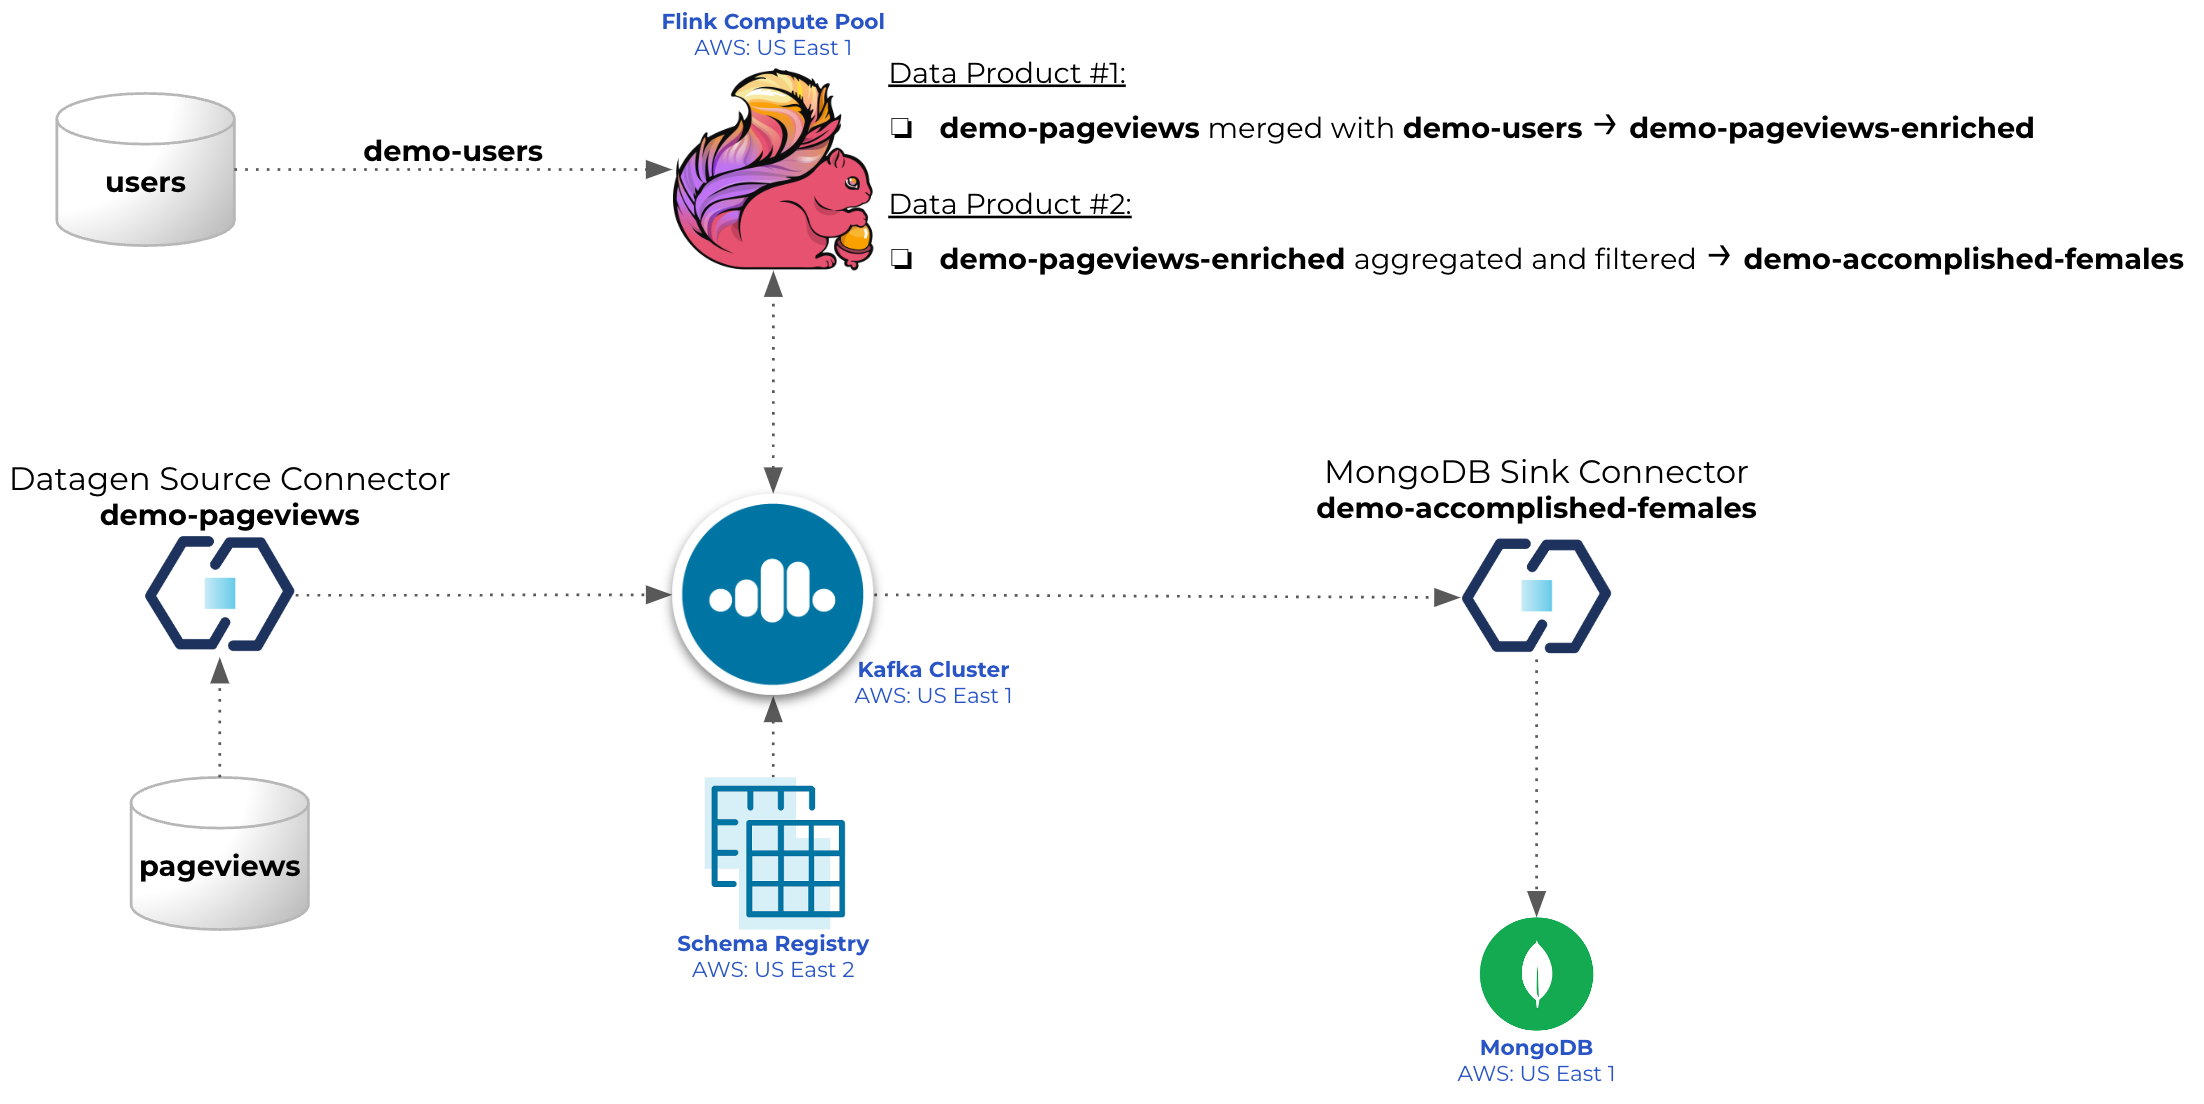
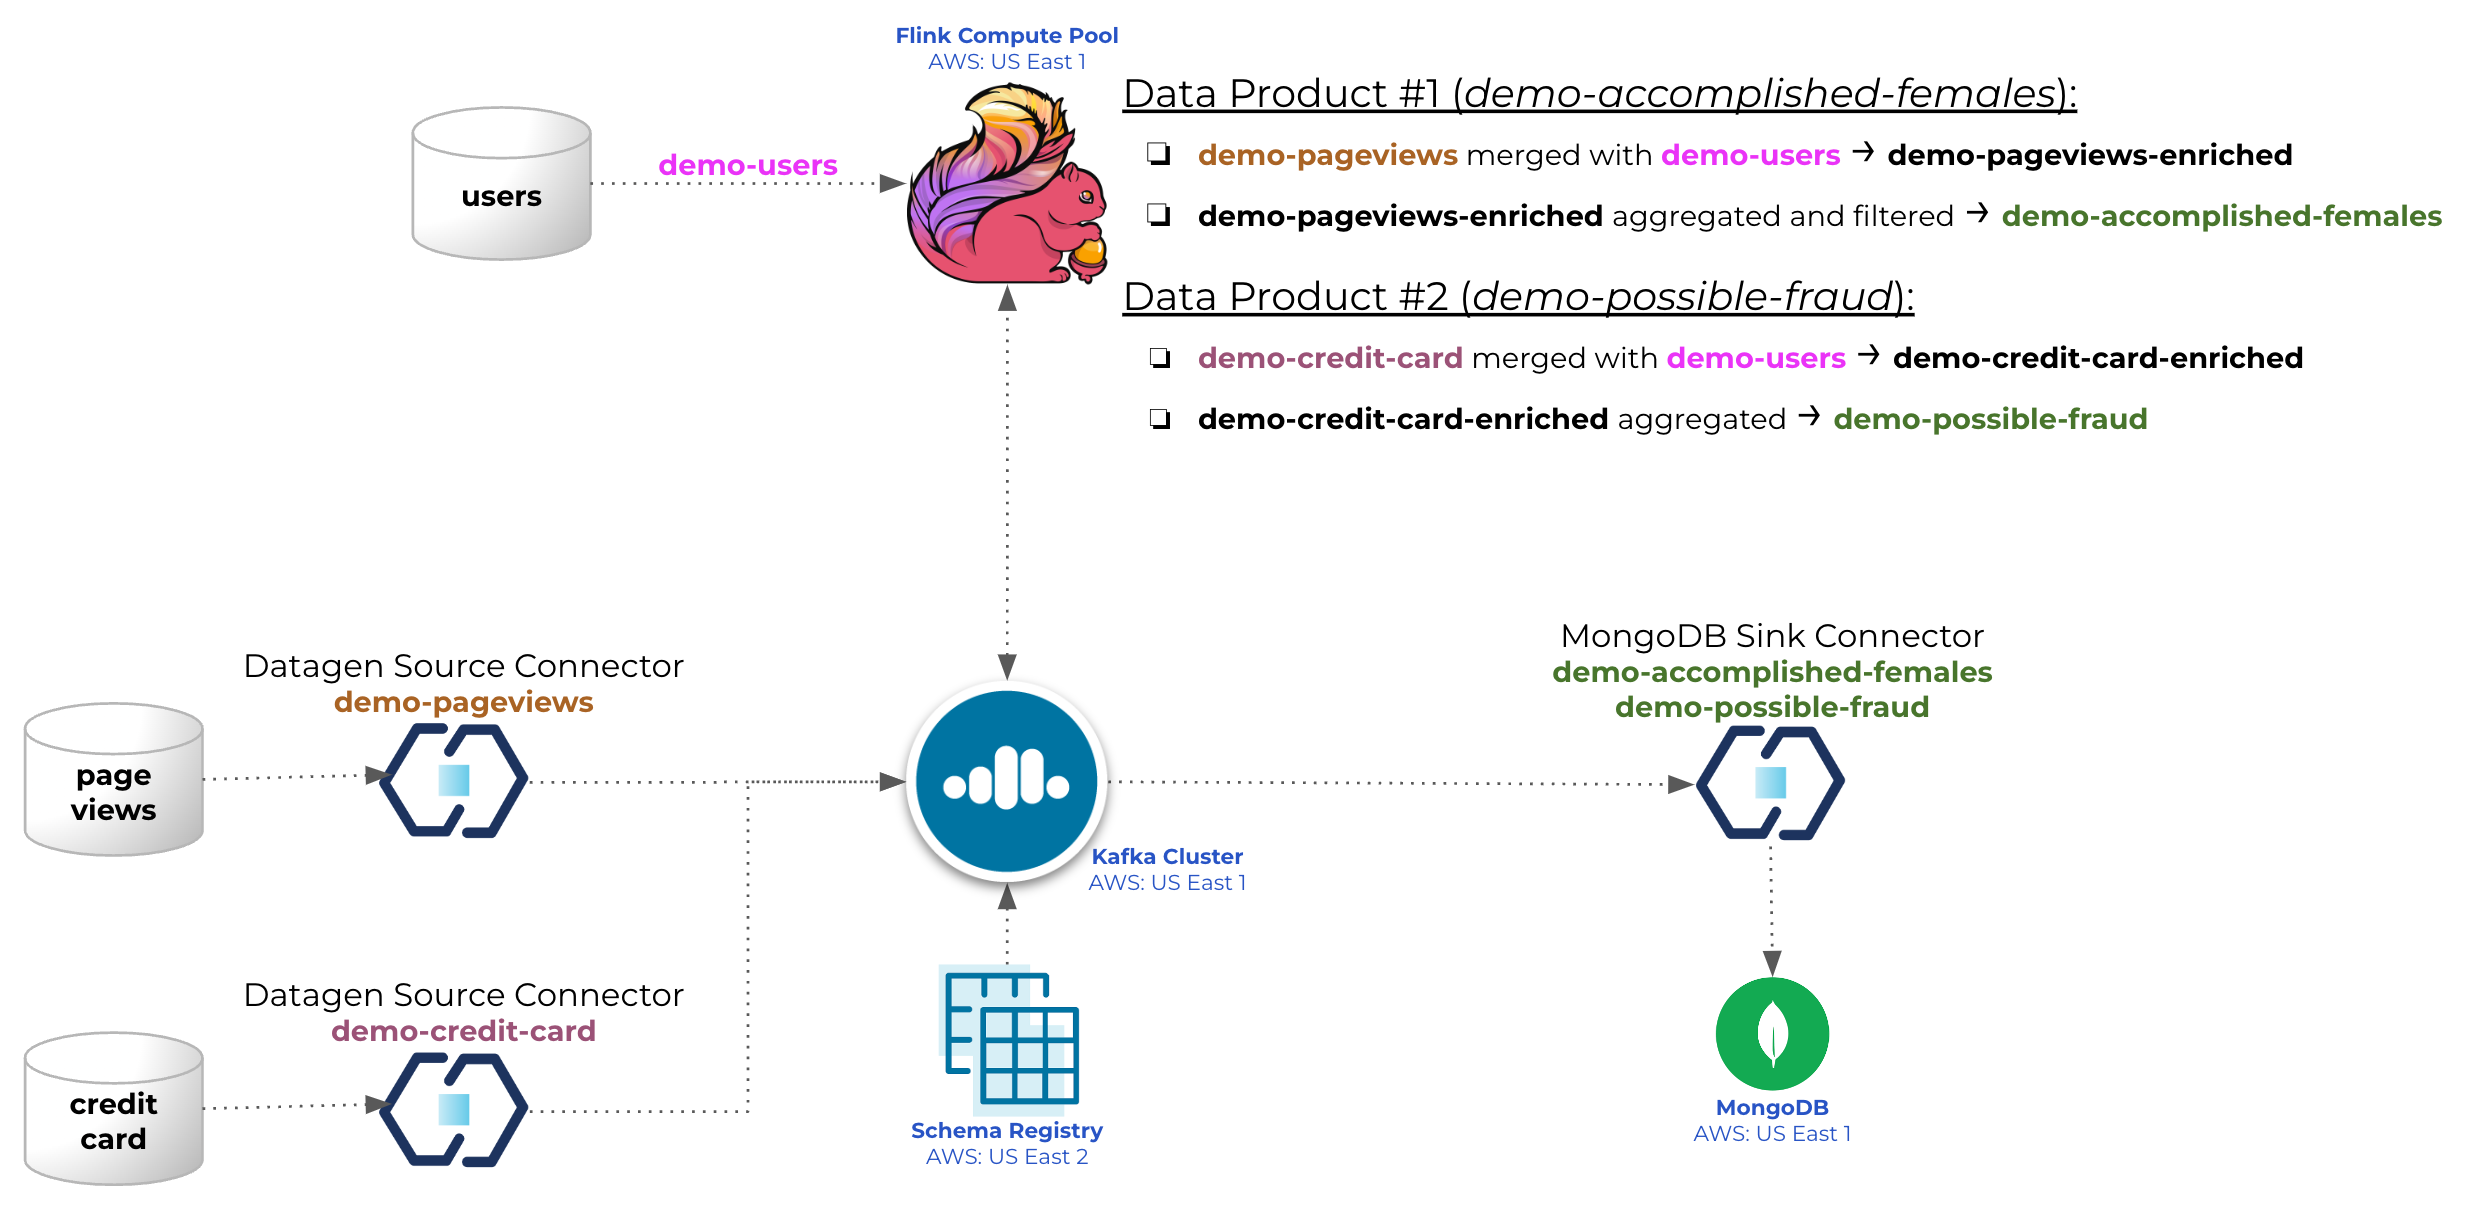
Added credit card data product

diff --git a/README.md b/README.md
@@ -2,14 +2,23 @@
 
 # Overview
 
-This is a demo to try out Flink on Confluent Cloud. It is basically a merge of a non-transactional table `demo-users` with a transactional one `demo-pageviews`, then these tables will get merged and at last a new table is created wth a simple aggregation so it result (table `demo-accomplished-females`) can be sunk to MongoDB.
+This is a demo to try out Flink on Confluent Cloud.
+
+It will create two data products and have then sunk to an Atlas MongoDB:
+ - `demo-possible-fraud`:
+    - merge of a non-transactional table `demo-users` with a transactional one `demo-credit-card`
+    - list all cases where the sum of all transactions within a given timeframe is greater than the average credit card transaction for a given user
+ - `demo-accomplished-females`:
+    - merge of a non-transactional table `demo-users` with a transactional one `demo-pageviews`
+    - list all female readers that has read more than a given number of pages within a given timeframe
 
 ![image](docs/demo-diagram.png)
 
 # Pre-requisites
-- User account on [Confluent Cloud](https://www.confluent.io/confluent-cloud/tryfree/)
-- Local install of Terraform (details below)
+- User account on [Confluent Cloud](https://www.confluent.io/confluent-cloud/tryfree)
 - User account on [Atlas MongoDB](https://account.mongodb.com/account/login)
+- Local install of [Terraform](https://www.terraform.io) (details below)
+- Local install of [jq](https://jqlang.github.io/jq/download) (details below)
 
 # Installation (only need to do that once)
 
@@ -19,6 +28,11 @@ brew tap hashicorp/tap
 brew install hashicorp/tap/terraform
 brew update
 brew upgrade hashicorp/tap/terraform
+```
+
+## Install jq
+```
+brew install jq
 ```
 
 # Provision services for the demo
@@ -43,12 +57,19 @@ export MONGODB_ATLAS_PUBLIC_IP_ADDRESS="Enter the CIDR range(s) allowed to acces
 - Run command: `./demo_start.sh`
 
 ## Flink Compute Pool
+ - Access Confluent Cloud WebUI: https://confluent.cloud/login
+ - Access your Environment: `flink_demo_terraform-XXXXXXXX`
  - Access your Flink Compute Pool: `standard_compute_pool-XXXXXXXX`
+ - Click `Open SQL workspace`
  - Make sure to select:
    - Catalog: `flink_demo_terraform-XXXXXXXX`
    - Database: `cc-demo-cluster`
  - Submit the following SQL queries (one at a time):
 ```
+-- *****************************
+-- Create non-transaction table
+-- ****************************
+
 --------------------------------------------------------
 -- View demo-pageviews table (from topic with same name)
 --------------------------------------------------------
@@ -61,8 +82,10 @@ select * from `demo-pageviews`;
 ---------------------------------------------------------------
 CREATE TABLE `demo-users` (
   `userid` STRING,
+  `full_name` STRING,
   `regionid` STRING,
-  `gender` STRING
+  `gender` STRING,
+  `avg_credit_spend` DOUBLE
 ) WITH (
   'changelog.mode' = 'retract'
 );
@@ -72,24 +95,29 @@ describe extended `demo-users`;
 ----------------------------------------------------------------------
 -- Populate table demo-users (see new messages published in the topic)
 ----------------------------------------------------------------------
-INSERT INTO `demo-users` (`userid`, `regionid`, `gender`) VALUES
-  ('User_1', 'Region_10', 'MALE'),
-  ('User_2', 'Region_20', 'FEMALE'),
-  ('User_3', 'Region_30', 'MALE'),
-  ('User_4', 'Region_40', 'FEMALE'),
-  ('User_5', 'Region_50', 'MALE'),
-  ('User_6', 'Region_60', 'FEMALE'),
-  ('User_7', 'Region_70', 'MALE'),
-  ('User_8', 'Region_80', 'FEMALE'),
-  ('User_9', 'Region_90', 'OTHER');
+INSERT INTO `demo-users` (`userid`, `full_name`, `regionid`, `gender`,  `avg_credit_spend`) VALUES
+  ('User_1', 'Blake Lambert', 'Region_10', 'MALE', 8650.0),
+  ('User_2', 'Olivia Anderson', 'Region_20', 'FEMALE', 7721.0),
+  ('User_3', 'Evan Hughes', 'Region_30', 'MALE', 9822.0),
+  ('User_4', 'Sonia Marshall', 'Region_40', 'FEMALE', 7629.0),
+  ('User_5', 'Benjamin Stewart', 'Region_50', 'MALE', 8455.0),
+  ('User_6', 'Caroline Coleman', 'Region_60', 'FEMALE', 8999.0),
+  ('User_7', 'Oliver Chapman', 'Region_70', 'MALE', 10233.0),
+  ('User_8', 'Rose Skinner', 'Region_80', 'FEMALE', 9611.0),
+  ('User_9', 'Bernadette Cameron', 'Region_90', 'OTHER', 9623.0);
 
 select * from `demo-users`;
+
+-- ******************************************
+-- Data Product #1: demo-accomplished-females
+-- ******************************************
 
 ----------------------------------------------------------------------------
 -- Create table demo-pageviews-enriched (topic with same name to be created)
 ----------------------------------------------------------------------------
 CREATE TABLE `demo-pageviews-enriched` (
   `userid` STRING,
+  `full_name` STRING,
   `regionid` STRING,
   `gender` STRING,
   `pageid` INTEGER,
@@ -104,9 +132,10 @@ describe extended `demo-pageviews-enriched`;
 ---------------------------------------------------------------------------------
 -- Merge tables demo-pageviews (transactional) and demo-users (non-transactional) 
 ---------------------------------------------------------------------------------
-INSERT INTO `demo-pageviews-enriched` (`userid`, `regionid`, `gender`, `pageid`, `viewtime`)
+INSERT INTO `demo-pageviews-enriched` (`userid`, `full_name`, `regionid`, `gender`, `pageid`, `viewtime`)
 SELECT
   p.`userid`,
+  u.`full_name`,
   u.`regionid`,
   u.`gender`,
   CAST(REGEXP_EXTRACT(p.`pageid`, '.*?(\d+)', 1) as INTEGER),
@@ -124,6 +153,7 @@ select * from `demo-pageviews-enriched`;
 ------------------------------------------------------------------------------
 CREATE TABLE `demo-accomplished-females` (
   `userid` STRING,
+  `full_name` STRING,
   `regionid` STRING,
   `gender` STRING,
   `viewtime` TIMESTAMP(3),
@@ -141,6 +171,7 @@ describe extended `demo-accomplished-females`;
 INSERT INTO `demo-accomplished-females`
 SELECT
   `userid`,
+  `full_name`,
   `regionid`,
   `gender`,
   `window_start`,
@@ -149,7 +180,7 @@ FROM
   TABLE(
     TUMBLE(TABLE `demo-pageviews-enriched`, DESCRIPTOR(`viewtime`), INTERVAL '1' MINUTES)
   )
-GROUP BY `userid`, `regionid`, `gender`, `window_start`
+GROUP BY `userid`, `full_name`, `regionid`, `gender`, `window_start`
 HAVING
   SUM(`pageid`) >= 500
   AND `gender` = 'FEMALE';
@@ -158,6 +189,92 @@ HAVING
 -- Query table demo-accomplished-females to see the events flowing through, then continue with the rest of the demo (sink to MongoDB)
 -------------------------------------------------------------------------------------------------------------------------------------
 select * from `demo-accomplished-females`;
+
+-- ************************************
+-- Data Product #2: demo-possible-fraud
+-- ************************************
+
+----------------------------------------------------------------------------
+-- Create table demo-credit-card-enriched (topic with same name to be created)
+----------------------------------------------------------------------------
+CREATE TABLE `demo-credit-card-enriched` (
+  `userid` STRING,
+  `full_name` STRING,
+  `regionid` STRING,
+  `gender` STRING,
+  `amount` DOUBLE,
+  `avg_credit_spend` DOUBLE,
+  `transaction_id` BIGINT,
+  `credit_card_last_four` STRING,
+  `timestamp` TIMESTAMP(3),
+  WATERMARK FOR `timestamp` AS `timestamp` - INTERVAL '1' MINUTES
+) WITH (
+  'changelog.mode' = 'retract'
+);
+
+describe extended `demo-credit-card-enriched`;
+
+----------------------------------------------------------------------------------
+-- Merge tables demo-credit-card (transactional) and demo-users (non-transactional) 
+----------------------------------------------------------------------------------
+INSERT INTO `demo-credit-card-enriched` (`userid`, `full_name`, `regionid`, `gender`, `amount`, `avg_credit_spend`, `transaction_id`, `credit_card_last_four`, `timestamp`)
+SELECT
+  c.`userid`,
+  u.`full_name`,
+  u.`regionid`,
+  u.`gender`,
+  c.`amount`,
+  u.`avg_credit_spend`,
+  c.`transaction_id`,
+  c.`credit_card_last_four`,
+  c.`timestamp`
+FROM
+  `demo-credit-card` as c
+LEFT JOIN `demo-users` AS u
+ON
+  c.`userid` = u.`userid`;
+
+select * from `demo-credit-card-enriched`;
+
+------------------------------------------------------------------------
+-- Create table demo-possible-fraud (topic with same name to be created)
+------------------------------------------------------------------------
+CREATE TABLE `demo-possible-fraud` (
+  `userid` STRING,
+  `full_name` STRING,
+  `regionid` STRING,
+  `gender` STRING,
+  `timestamp` TIMESTAMP(3),
+  `sum_amount` DOUBLE,
+  `max_avg_credit_spend` DOUBLE,
+  WATERMARK FOR `timestamp` AS `timestamp` - INTERVAL '1' MINUTES
+) WITH (
+  'changelog.mode' = 'retract'
+);
+
+describe extended `demo-possible-fraud`;
+
+-------------------------------------------------------------------------------------------------
+-- Populate table demo-possible-fraud (If sum of amount if greater than average credit card spend)
+-------------------------------------------------------------------------------------------------
+INSERT INTO `demo-possible-fraud`
+SELECT
+  `userid`,
+  `full_name`,
+  `regionid`,
+  `gender`,
+  `window_start`,
+   SUM(`amount`),
+   MAX(`avg_credit_spend`)
+FROM
+  TABLE(
+    TUMBLE(TABLE `demo-credit-card-enriched`, DESCRIPTOR(`timestamp`), INTERVAL '30' SECONDS)
+  )
+GROUP BY `userid`, `full_name`, `regionid`, `gender`, `window_start`
+HAVING
+  SUM(`amount`) > MAX(`avg_credit_spend`);
+
+select * from `demo-possible-fraud`;
 ```
 
 ## Add MongoDB + Sink Connector
@@ -171,7 +288,7 @@ select * from `demo-accomplished-females`;
 2. Create Schema Registry on AWS us-east-2
 3. Create Basic/single-zone Kafka cluster on AWS us-east-1 named `cc-demo-cluster`
 4. Create Flink Compute Pool `standard_compute_pool-XXXXXXXX`
-5. Create DataGen source connector:
+5. Create DataGen source connectors:
 - `DSC_pageviews` sourcing data to the topic `demo-pageviews`, example:
 ```
 {
@@ -202,6 +319,52 @@ Schema:
   "type": "record"
 }
 ```
+- `DSC_credit_card` sourcing data to the topic `demo-credit-card`, example:
+```
+{
+  "timestamp": 1697881233780,
+  "userid": "User_7",
+  "amount": 386.90416643284493,
+  "transaction_id": 6079,
+  "credit_card_last_four": "8901"
+}
+```
+Schema:
+```
+{
+  "connect.name": "datagen.credit_card",
+  "fields": [
+    {
+      "name": "timestamp",
+      "type": {
+        "connect.name": "org.apache.kafka.connect.data.Timestamp",
+        "connect.version": 1,
+        "logicalType": "timestamp-millis",
+        "type": "long"
+      }
+    },
+    {
+      "name": "userid",
+      "type": "string"
+    },
+    {
+      "name": "amount",
+      "type": "double"
+    },
+    {
+      "name": "transaction_id",
+      "type": "long"
+    },
+    {
+      "name": "credit_card_last_four",
+      "type": "string"
+    }
+  ],
+  "name": "credit_card",
+  "namespace": "datagen",
+  "type": "record"
+}
+```
 6. Create MongoDB `M0` (free tier) cluster on AWS us-east-1 named `terraformFlinkDemo` (IMPORTANT: Only one free-tier cluster is allowed per Atlas account)
 7. Add entry to the Network Access tab (Atlas):
  - IP Address: 0.0.0.0/0 (or as set on env variable MONGODB_ATLAS_PUBLIC_IP_ADDRESS)
@@ -217,15 +380,27 @@ Schema:
  - Resources: All resources
 9. MongoDB Database named `confluent_flink_demo`
 10. Create MongoDB Atlas Sink connector named `confluent-mongodb-sink`
- - A new collection will be created to the MongoDB database named `confluent_flink_demo.accomplished_female_readers`, see example of document below (from topic `demo-accomplished-females`)
- ```
+ - Two new collections will be created to the MongoDB database:
+   - `confluent_flink_demo.accomplished_female_readers`, see example of document below (from topic `demo-accomplished-females`)
+```
 _id: 65326651fca84544107f3ffa
 userid: "User_8"
 regionid: "Region_80"
 gender: "FEMALE"
 viewtime: 2023-10-20T11:22:00.000+00:00
 sum_pageid: 527
- ```
+```
+   - `confluent_flink_demo.demo-possible-fraud`, see example of document below (from topic `demo-possible-fraud`)
+```
+_id: 6533a6a8a0bad77e82c5a54e
+userid: "User_3"
+full_name: "Evan Hughes"
+regionid: "Region_30"
+gender: "MALE"
+timestamp: 2023-10-21T09:39:30.000+00:00
+sum_amount: 5650.388958945722
+max_avg_credit_spend: 3675
+```
 11. The Terraform code will also create Service Accounts, ACLs and API Keys
 
 # Terraform files
